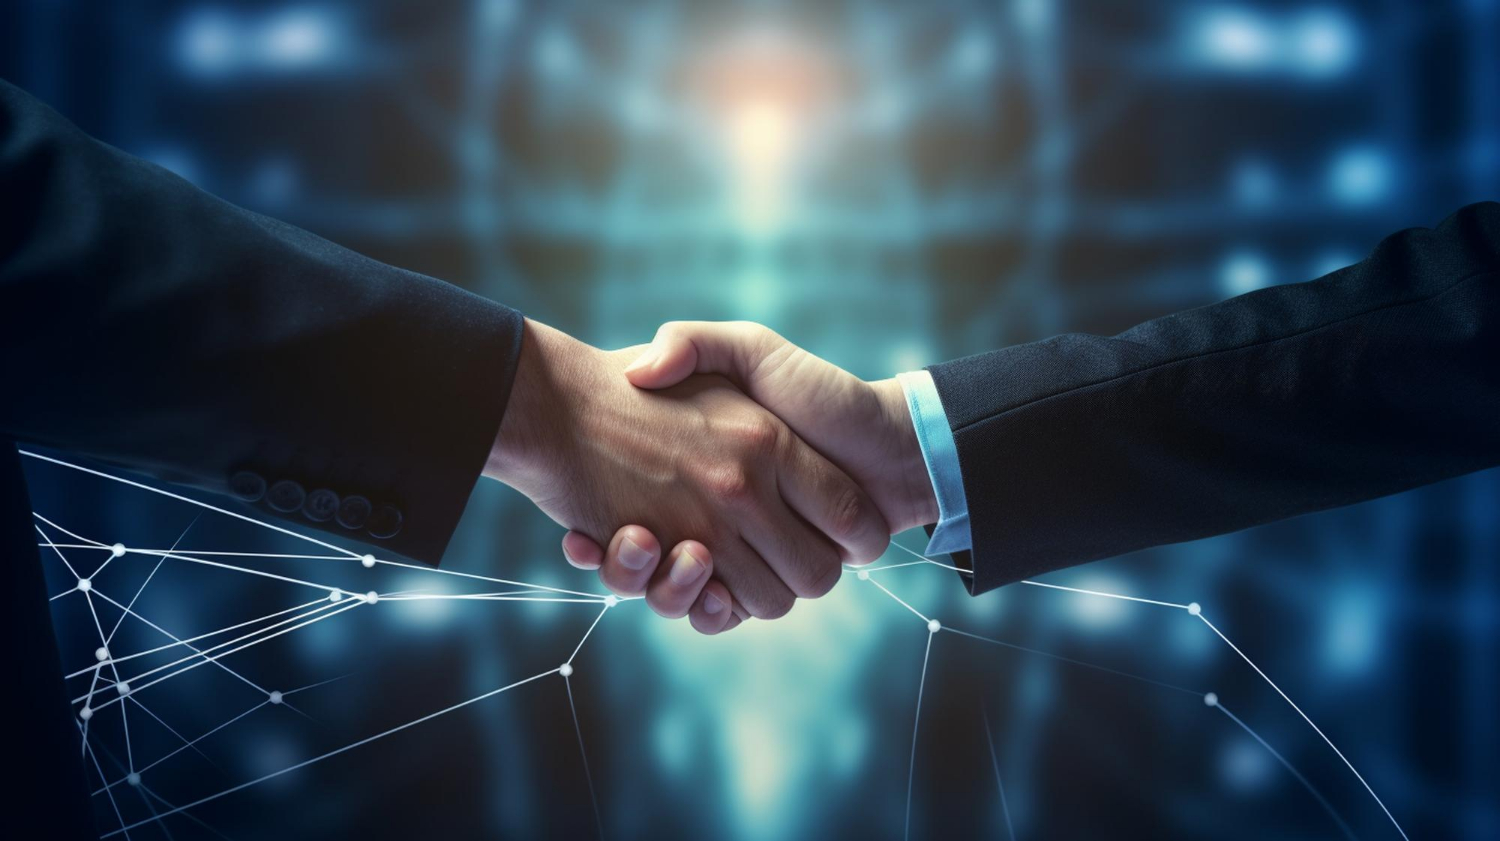
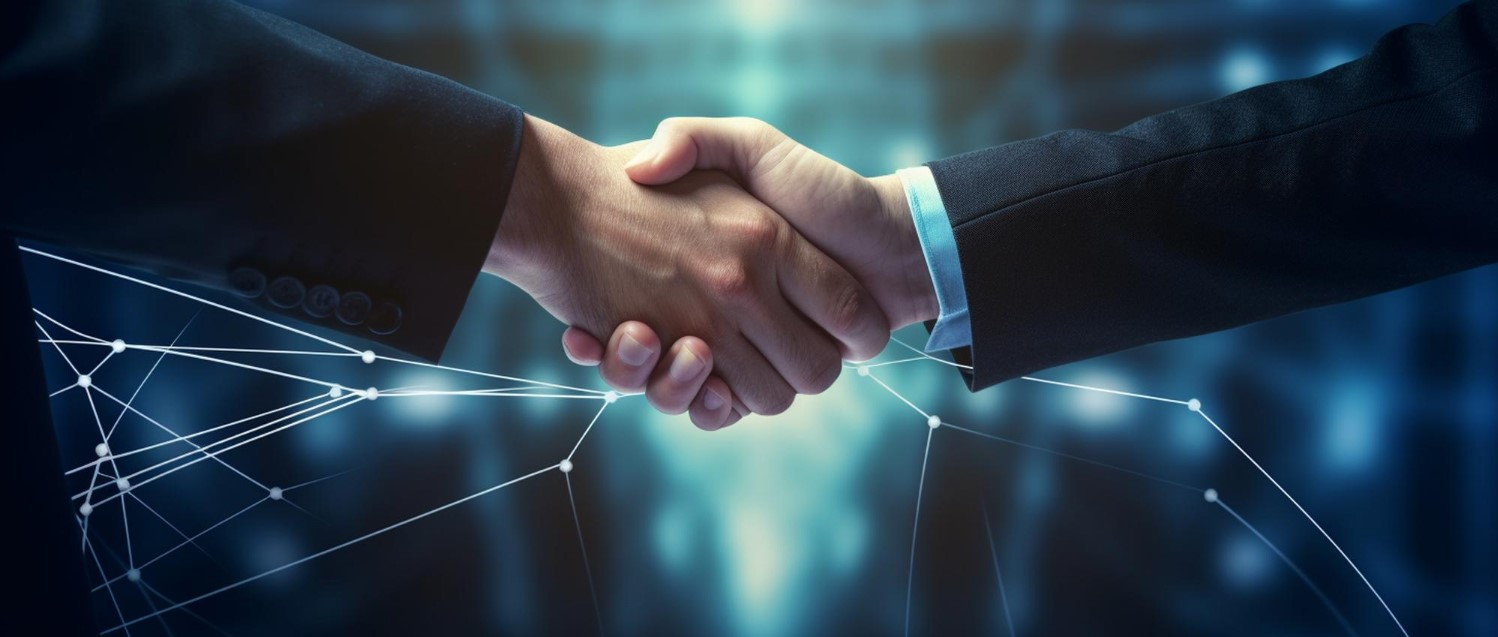
I need support section done

diff --git a/style.css b/style.css
@@ -1,3 +1,6 @@
+body{
+    margin: 0;
+}
 nav{
     margin: 0 5%;
  
@@ -257,84 +260,7 @@ flex-direction: column;
 justify-content: flex-start;
 align-items: center;
 }
-/*
-.skill-HTML{
-    align-items: flex-start;
-    margin: 150px; 
-    padding: 40px;
-    width: 364px;
-height: 299px;
-  text-align:start;
-    background: rgba(255, 76, 30, 0.05);
-  
-}
-.skill-CSS{
-    
-    margin: 150px; 
-    padding: 40px;
-    width: 364px;
-height: 299px;
-  text-align:start;
-    background: rgba(0, 76, 232, 0.05);
-  
-}
-.skill-JS{
-   
-    margin: 150px; 
-    padding: 40px;
-    width: 364px;
-height: 299px;
-  text-align:start;
-    background: rgba(255, 223, 0, 0.05);
-  
-}
-.skills-title{
-   
-display: flex;
 
-color: rgb(13, 19, 33);
-font-family: Azeret Mono;
-font-size: 24px;
-font-weight: 800;
-text-align: left;
-align-items: left;
-justify-content: flex-start;
-
-
-}
-.skill-description{
-display: flex;
-flex-direction: column;
-    color: rgb(13, 19, 33);
-    font-family: Azeret Mono;
-    font-size: 16px;
-    font-weight: 400;
-    align-items: left;
-text-align: left;
-}
-.skills-container{
-
-    display: flex;
-   justify-content: space-around;
-   align-items: flex-start;
-   padding: 20px;
-}
-
- 
-.skill{
-    display: flex;
-    flex-direction: column;
-    align-items: center;
-    margin: 20px;
-    padding: 20px;
-    width: 300px;
-    height: 300px;
-    border-radius: 10px;
-    text-align: center;
-
-}
-
-*/
 .skill{
     display: flex;
     flex-direction: column;
@@ -394,4 +320,68 @@ text-align: left;
 .skill img{
     align-self: flex-start;
     margin-bottom: 10px;
+}
+.Handshake-Container{
+    background-image: url("./assets/handshake.jpg");
+    background-repeat: no-repeat;
+    background-size: cover;
+    border-radius: 16px;
+    margin-left: 10%;
+background: rgba(0, 0, 0, 0.2),rgba(0, 0, 0, 0.2),rgba(0, 0, 0, 0.2);
+    display: flex;
+    flex-direction: column;
+    justify-content: center;
+    align-items: center;
+    width: 1140px;
+    height: 314px;
+    left: 150px;
+    right: 150px;
+    top: 4752px;
+    bottom: 179px;
+    padding: 20px;
+}
+.Handshake-Content h2{
+    color: rgb(255, 255, 255);
+font-family: Azeret Mono;
+font-size: 32px;
+font-weight: 700;
+}
+.Handshake-Content p {
+    color: rgb(255, 255, 255);
+    font-family: Azeret Mono;
+    font-size: 12px;
+    font-weight: 400;
+}
+
+.Txt-Btn-Container button{
+    border-radius: 8px;
+    background: rgb(255, 255, 255);
+display: flex;
+flex-direction: row;
+justify-content: center;
+align-items: center;
+padding: 17px 20px 17px 20px;
+color: rgb(13, 19, 33);
+font-family: Azeret Mono;
+font-size: 20px;
+font-weight: 600;
+border: 1px solid rgba(13, 19, 33, 0.2);
+    
+
+}
+.Txt-Btn-Container input[type="text"]
+{ margin-top: 5%;
+    box-sizing: border-box;
+    border: 1px solid rgba(13, 19, 33, 0.15);
+    border-radius: 8px;
+    background: rgb(255, 255, 255);
+
+  width: 548px;
+  height: 57px;
+
+  display: flex;
+  flex-direction: row;
+  justify-content: flex-start;
+  align-items: center;
+
 }

diff --git a/index.html b/index.html
@@ -126,6 +126,17 @@
     </section>
          <!-- My current Target ends here -->   
 <!-- Handshake starts here -->
+
+<section class="Handshake-Container">
+<div class="Handshake-Content">
+    <h2>I need Support</h2>
+    <p>If you need any kind of support write it here</p>
+</div>
+<div class="Txt-Btn-Container">
+   <input type="text"  placeholder="Suggest me any feedback for me" id="input-txt"></input>
+   <button type ="submit">Submit</button>
+</div>
+</section>
 <!-- Handshake ends here -->
     </main>
 </body>
